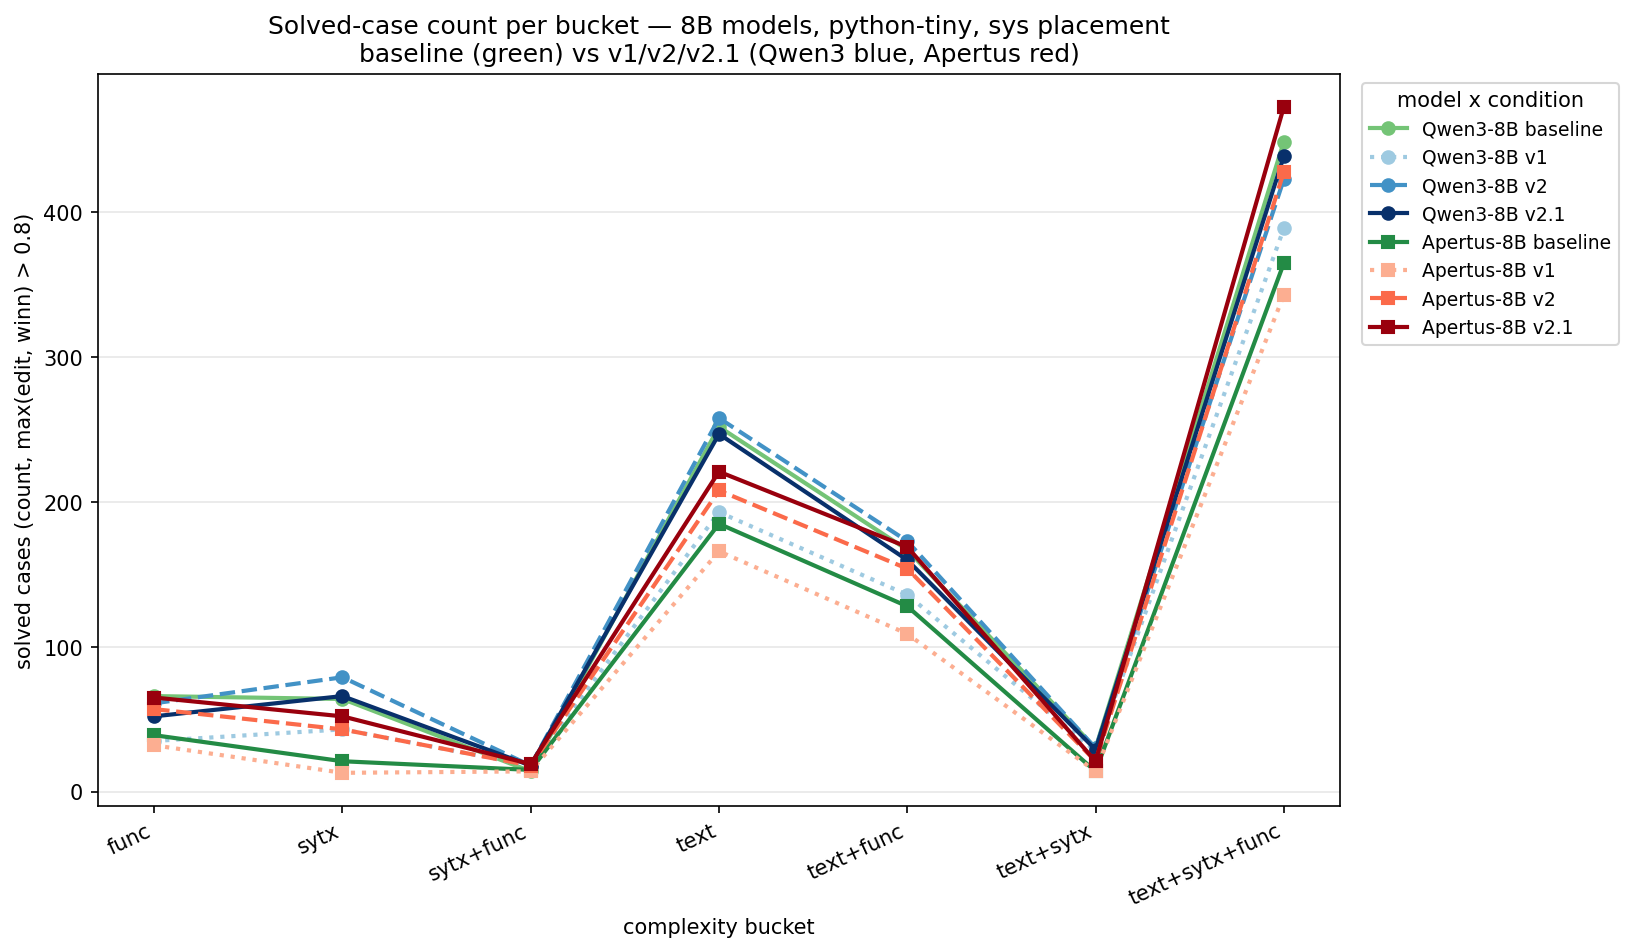
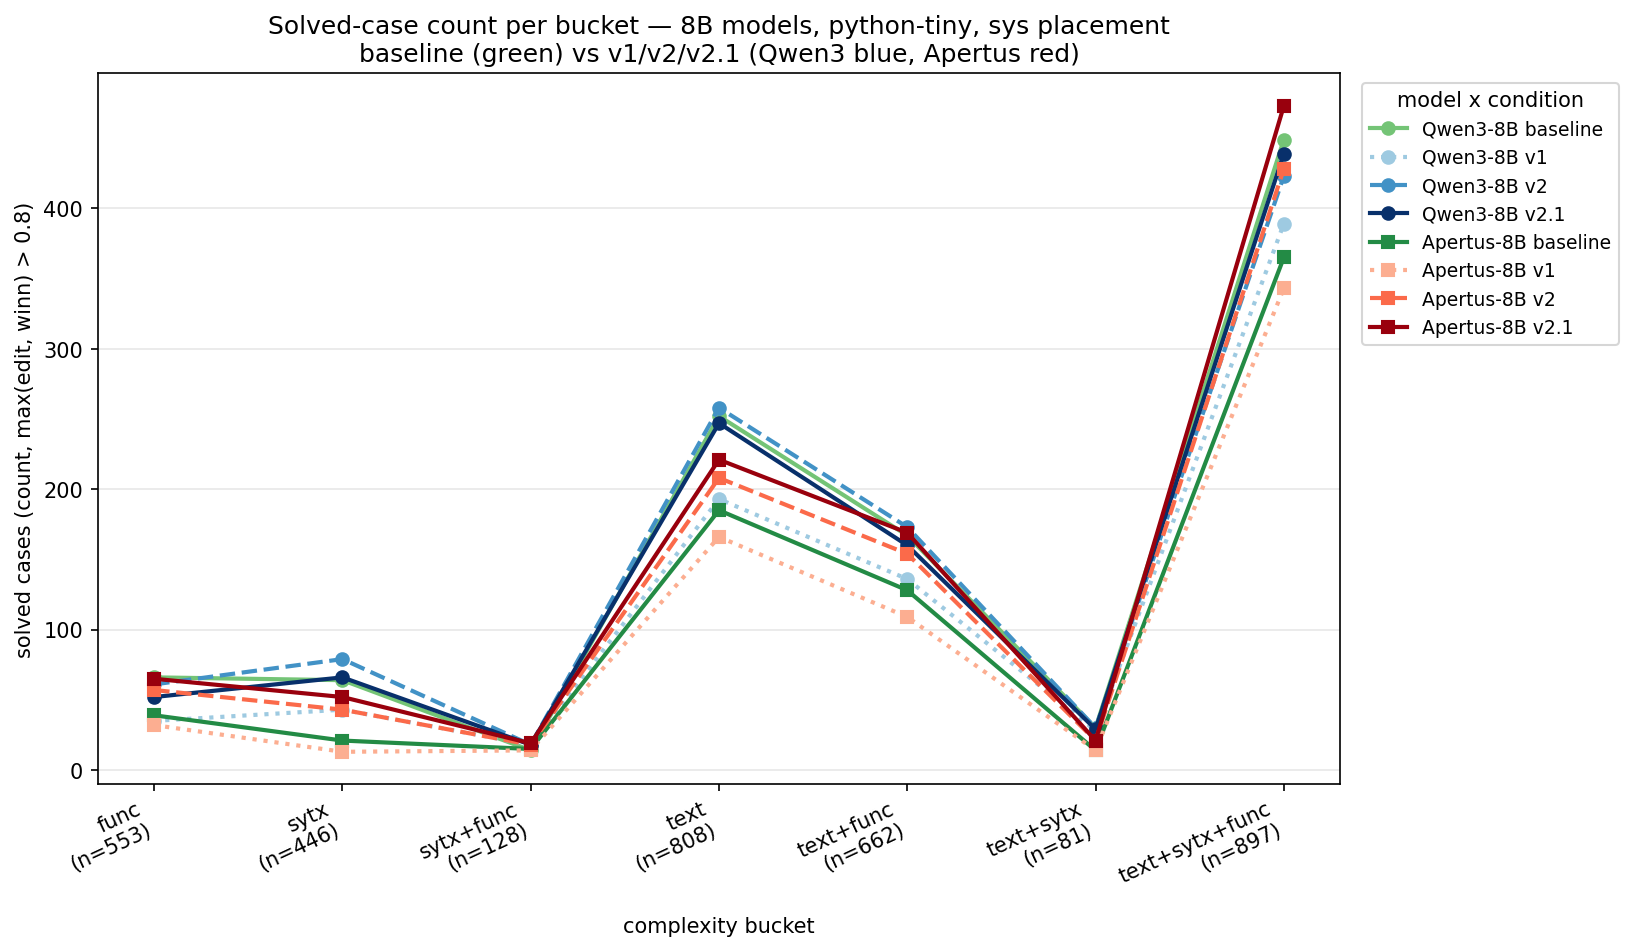
feat(figures): annotate per-bucket case count (n) on solved chart x-axis (refs #78)

Changed region(s): [[0.0312, 0.183, 0.812, 0.9453], [0.0, 0.2135, 0.0625, 0.7014], [0.8745, 0.2135, 0.9682, 0.3659]]

diff --git a/scripts/plot_solved_rates.py b/scripts/plot_solved_rates.py
@@ -112,8 +112,13 @@ def plot(data, out_path, mode):
             ax.plot(x, ys, linestyle=LS[cond], color=color(model, cond),
                     marker=MODEL_MARKER[model], markersize=6, linewidth=2,
                     label=f"{MODEL_LABEL[model]} {cond}")
+    # per-bucket case count (max across the 8 series = full bucket size;
+    # series differ only by a few dropped error rows)
+    bucket_n = {b: max(data[m][c][b][0] for m in MODEL_LABEL for c in CONDITIONS)
+                for b in BUCKETS}
     ax.set_xticks(list(x))
-    ax.set_xticklabels(BUCKETS, rotation=25, ha="right")
+    ax.set_xticklabels([f"{b}\n(n={bucket_n[b]})" for b in BUCKETS],
+                       rotation=25, ha="right")
     ax.set_xlabel("complexity bucket")
     if mode == "count":
         ax.set_ylabel(f"solved cases (count, max(edit, winn) > {T_SOLVED})")
